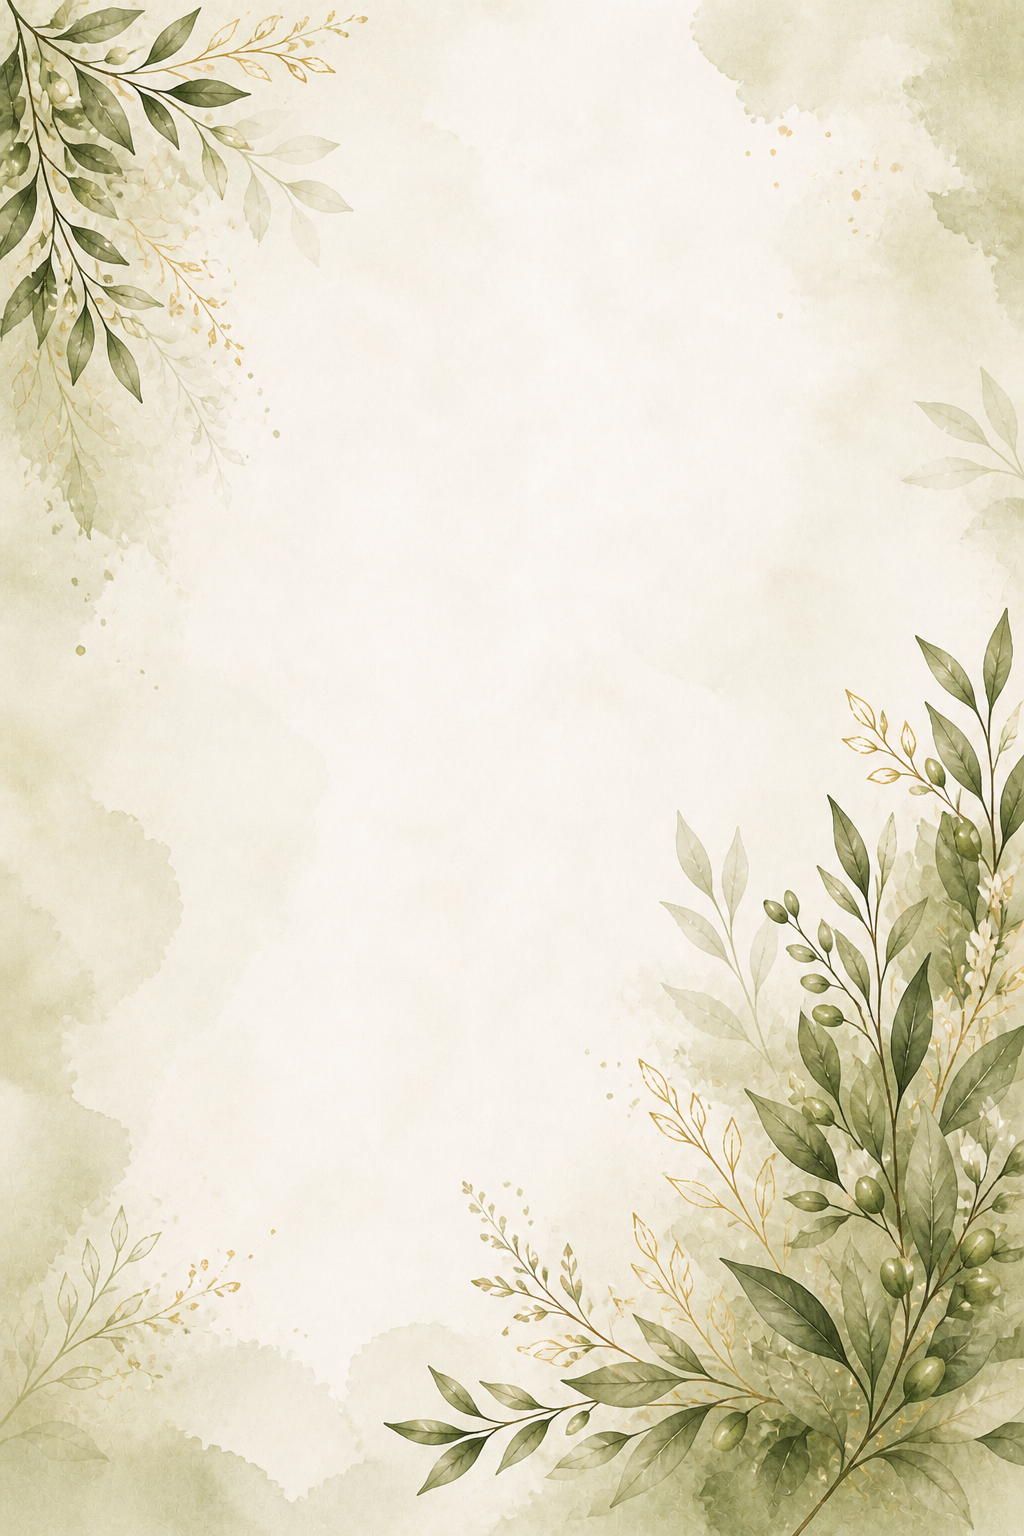
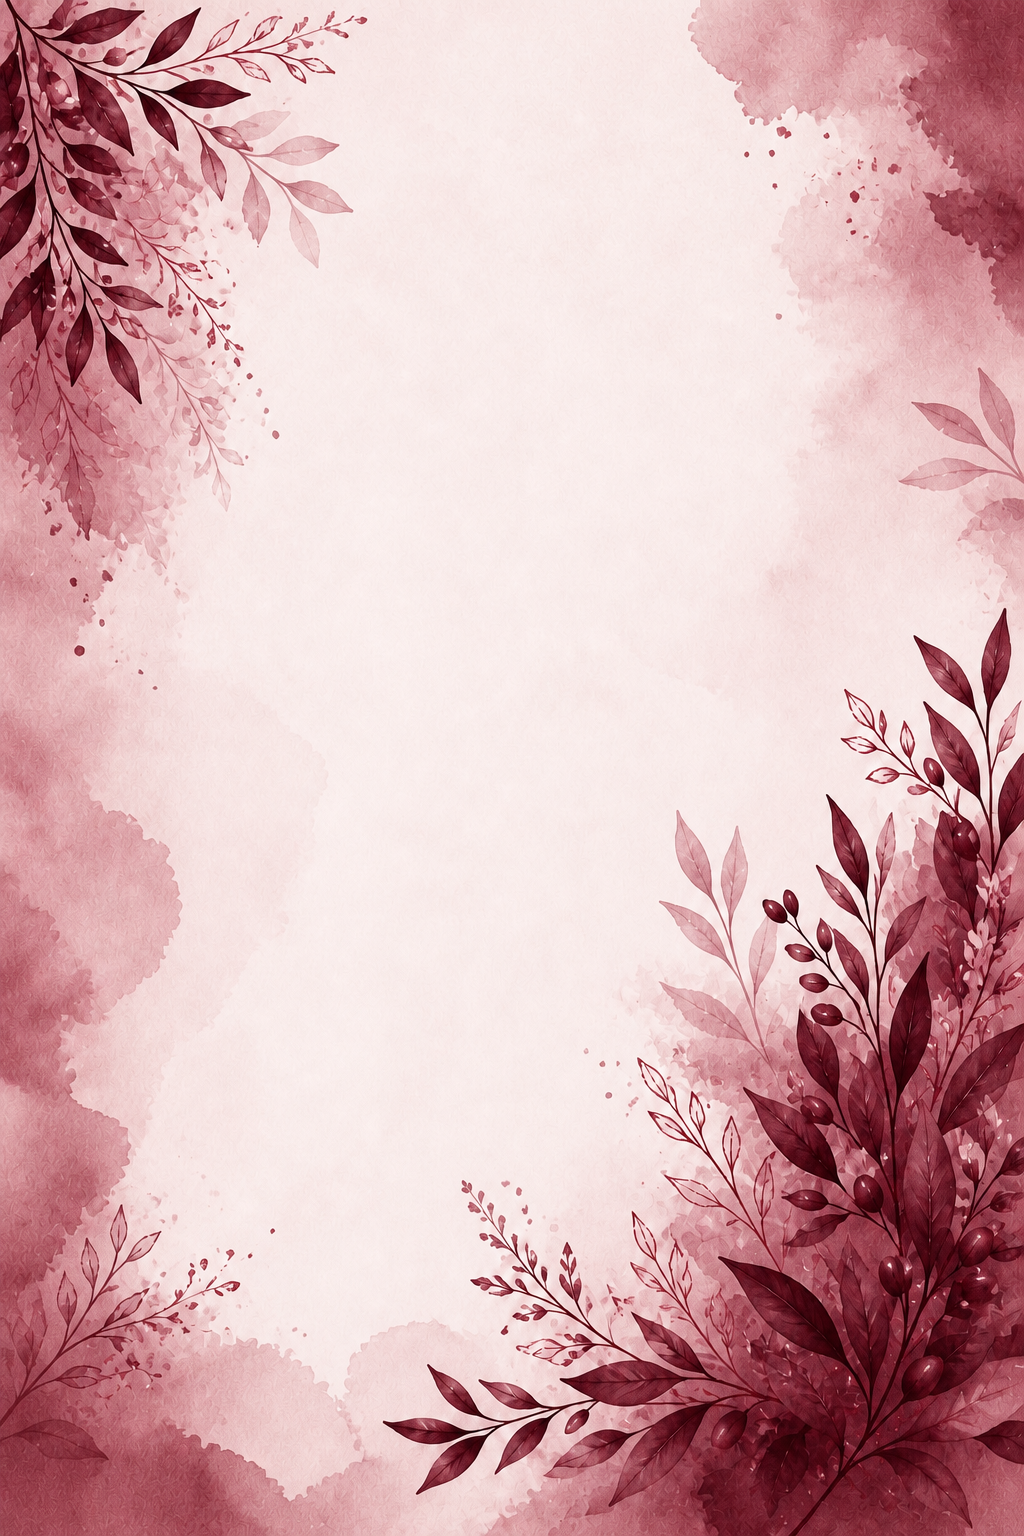
wed

diff --git a/index.html b/index.html
@@ -11,6 +11,10 @@
 
 <meta name="description" content="Join us to celebrate the wedding of Salman Kareem & Adhabiya Ummer on Sunday, 19th July 2026 at Highness Auditorium, Pukkattupady.">
 
+  <link rel="stylesheet" href="https://cdn.jsdelivr.net/npm/swiper@11/swiper-bundle.min.css"/>
+
+<script src="https://cdn.jsdelivr.net/npm/swiper@11/swiper-bundle.min.js"></script>
+
   <link rel="preconnect" href="https://fonts.googleapis.com">
   <link rel="preconnect" href="https://fonts.gstatic.com" crossorigin>
   <link href="https://fonts.googleapis.com/css2?family=Cormorant+Garamond:wght@400;500;600;700&family=Poppins:wght@300;400;500;600&display=swap" rel="stylesheet">
@@ -18,6 +22,7 @@
   <link href="https://fonts.googleapis.com/css2?family=Amiri&display=swap" rel="stylesheet">
   <link rel="stylesheet" href="https://use.typekit.net/xxxxxxx.css">
   <link rel="stylesheet" href="style.css">
+  <link rel="stylesheet" href="style1.css">
 
 </head>
 <body>
@@ -167,25 +172,84 @@
 
 
   <!-- Photos -->
-  <section id="photos" class="parallax-reveal">
-    <div class="container">
-
-      <h2 class="section-title parallax-reveal">Our Moments</h2>
-
-      <p class="section-subtitle parallax-reveal">
-        A glimpse of our beautiful journey together
-      </p>
-
-      <div class="photo-grid">
-
-        
-                <div class="photo-card parallax-reveal parallax-zoom">
-          <img src="images/2.jpeg" alt="Couple Photo 1">
+<section id="gallery" class="gallery-section">
+  <div class="container text-center">
+    <span class="section-eyebrow" data-aos="fade-up">Memories</span>
+    <h2 class="section-title text-center" data-aos="fade-up">Our Beautiful Moments</h2>
+    <p class="section-subtitle text-center" data-aos="fade-up">A glimpse into our journey together before we say "I Do".</p>
+    
+    <!-- Swiper Container (Delays removed) -->
+    <div class="swiper gallery-swiper" data-aos="fade-up">
+      <div class="swiper-wrapper">
+        <!-- Slide 1 -->
+        <div class="swiper-slide">
+          <img src="1.jpeg" alt="Couple photo 1">
+          <div class="slide-caption">The Beginning</div>
         </div>
-
+        <!-- Slide 2 -->
+        <div class="swiper-slide">
+          <img src="1.jpeg" alt="Couple photo 2">
+          <div class="slide-caption">Endless Love</div>
+        </div>
+        <!-- Slide 3 -->
+        <div class="swiper-slide">
+          <img src="1.jpeg" alt="Couple photo 3">
+          <div class="slide-caption">Joyful Times</div>
+        </div>        
+        <div class="swiper-slide">
+          <img src="1.jpeg" alt="Couple photo 3">
+          <div class="slide-caption">Joyful Times</div>
+        </div>        
+        <div class="swiper-slide">
+          <img src="1.jpeg" alt="Couple photo 3">
+          <div class="slide-caption">Joyful Times</div>
+        </div>
+        <!-- Slide 4 -->
+        <div class="swiper-slide">
+          <img src="1.jpeg" alt="Couple photo 4">
+          <div class="slide-caption">Forever Together</div>
+        </div>
+        <!-- Slide 5 -->
+        <div class="swiper-slide">
+          <img src="2.jpeg" alt="Couple photo 5">
+          <div class="slide-caption">Our Promise</div>
+        </div>
+         <!-- Slide 1 -->
+        <div class="swiper-slide">
+          <img src="1.jpeg" alt="Couple photo 1">
+          <div class="slide-caption">The Beginning</div>
+        </div>
+        <!-- Slide 2 -->
+        <div class="swiper-slide">
+          <img src="1.jpeg" alt="Couple photo 2">
+          <div class="slide-caption">Endless Love</div>
+        </div>
+        <!-- Slide 3 -->
+        <div class="swiper-slide">
+          <img src="1.jpeg" alt="Couple photo 3">
+          <div class="slide-caption">Joyful Times</div>
+        </div>
+        <!-- Slide 4 -->
+        <div class="swiper-slide">
+          <img src="1.jpeg" alt="Couple photo 4">
+          <div class="slide-caption">Forever Together</div>
+        </div>
+        <!-- Slide 5 -->
+        <div class="swiper-slide">
+          <img src="1.jpeg" alt="Couple photo 5">
+          <div class="slide-caption">Our Promise</div>
+        </div>
+        <div class="swiper-slide">
+          <img src="1.jpeg" alt="Couple photo 5">
+          <div class="slide-caption">Our Promise</div>
+        </div>
       </div>
+      
+      <!-- Golden Pagination Dots -->
+      <div class="swiper-pagination"></div>
     </div>
-  </section>
+  </div>
+</section>>
 
 <footer class="footer parallax-reveal">
 
@@ -210,6 +274,7 @@
 
 </div>
 
+<script src="java.js"></script>
 
   <script>
  // Opening Text Animation
@@ -411,7 +476,17 @@ function initWishCarousel() {
   // SHOW FIRST CARD IMMEDIATELY
   currentWishIndex = 0;
   moveCarousel();
-}  </script>
+}  
+
+new Swiper(".gallerySwiper", {
+  loop: true,
+  speed: 800,
+  spaceBetween: 20,
+  autoplay: { delay: 3500, disableOnInteraction: false },
+  pagination: { el: ".swiper-pagination", clickable: true },
+  navigation: { nextEl: ".swiper-button-next", prevEl: ".swiper-button-prev" },
+});
+</script>
 
 </body>
 </html>

diff --git a/style1.css b/style1.css
@@ -1,0 +1,87 @@
+/* ============================
+   CAROUSEL GALLERY STYLES
+============================ */
+.gallery-section {
+  background: var(--ivory);
+  padding: var(--section-pad);
+  overflow: hidden; /* Important for preventing horizontal scroll from Swiper */
+}
+
+.gallery-swiper {
+  width: 100%;
+  padding-top: 50px;
+  padding-bottom: 60px;
+}
+
+/* Slide Setup */
+.gallery-swiper .swiper-slide {
+  width: 300px; /* Width on Mobile */
+  height: 400px;
+  border-radius: var(--radius);
+  overflow: hidden;
+  box-shadow: 0 15px 35px rgba(44, 36, 23, 0.1);
+  border: 1px solid rgba(201, 168, 76, 0.15); /* Subtle gold border */
+  transition: transform 0.5s cubic-bezier(0.4, 0, 0.2, 1);
+  background: var(--white);
+}
+
+@media (min-width: 768px) {
+  .gallery-swiper .swiper-slide {
+    width: 450px; /* Width on Desktop */
+    height: 600px;
+  }
+}
+
+/* Image styling */
+.gallery-swiper .swiper-slide img {
+  display: block;
+  width: 100%;
+  height: 100%;
+  object-fit: cover;
+  transition: transform 0.8s cubic-bezier(0.4, 0, 0.2, 1);
+}
+
+/* Subtle zoom effect only on the center/active slide */
+.gallery-swiper .swiper-slide-active img {
+  transform: scale(1.05);
+}
+
+/* Animated Caption (Delays removed) */
+.slide-caption {
+  position: absolute;
+  bottom: 0;
+  left: 0;
+  width: 100%;
+  padding: 40px 20px 24px;
+  background: linear-gradient(to top, rgba(26, 18, 8, 0.9) 0%, rgba(26, 18, 8, 0.2) 70%, transparent 100%);
+  color: var(--ivory);
+  font-family: var(--font-serif);
+  font-style: italic;
+  font-size: clamp(1.4rem, 3vw, 1.8rem);
+  text-align: center;
+  opacity: 0;
+  transform: translateY(20px);
+  transition: all 0.6s cubic-bezier(0.4, 0, 0.2, 1);
+  z-index: 2;
+  text-shadow: 0 4px 12px rgba(0,0,0,0.5);
+}
+
+/* Show caption only on the active centered slide */
+.gallery-swiper .swiper-slide-active .slide-caption {
+  opacity: 1;
+  transform: translateY(0);
+}
+
+/* Custom Pagination Dots */
+.gallery-swiper .swiper-pagination-bullet {
+  background: rgba(201, 168, 76, 0.4);
+  width: 10px;
+  height: 10px;
+  transition: var(--transition);
+}
+
+.gallery-swiper .swiper-pagination-bullet-active {
+  background: var(--gold);
+  width: 32px; /* Pill shape for active dot */
+  border-radius: 5px;
+}

diff --git a/java.js b/java.js
@@ -1,0 +1,27 @@
+document.addEventListener('DOMContentLoaded', function() {
+var gallerySwiper = new Swiper(".gallery-swiper", {
+    // 3D Coverflow effect
+    effect: "coverflow",
+    grabCursor: true,
+    centeredSlides: true,
+    slidesPerView: "auto",
+    loop: true,
+    coverflowEffect: {
+    rotate: 10,
+    stretch: 0,
+    depth: 250,
+    modifier: 1,
+    slideShadows: true,
+    },
+    // Pagination dots
+    pagination: {
+    el: ".swiper-pagination",
+    clickable: true,
+    },
+    // Auto-play settings
+    autoplay: {
+    delay: 3500,
+    disableOnInteraction: false,
+    }
+});
+});

diff --git a/style.css b/style.css
@@ -17,12 +17,12 @@
   --border: rgba(127, 143, 74, 0.25); /* muted moss green */
 
   /* Primary Accent (Olive Theme) */
-  --gold: #6B7D3A;        /* olive green (main accent) */
-  --gold-deep: #4F5D2A;   /* deep olive */
+  --gold: #7d3a3a;        /* olive green (main accent) */
+  --gold-deep: #5d2a2a;   /* deep olive */
 
   /* Text */
-  --text: #4F5D2A;        /* deep olive instead of black */
-  --muted: #7A7266;       /* taupe gray */
+  --text: #5d2a2a;        /* deep olive instead of black */
+  --muted: #7a6666;       /* taupe gray */
 
   /* Shadows */
   --shadow: 0 18px 45px rgba(79, 93, 42, 0.12);
@@ -859,3 +859,5 @@ section {
     max-width: 85%;
   }
 }
+
+